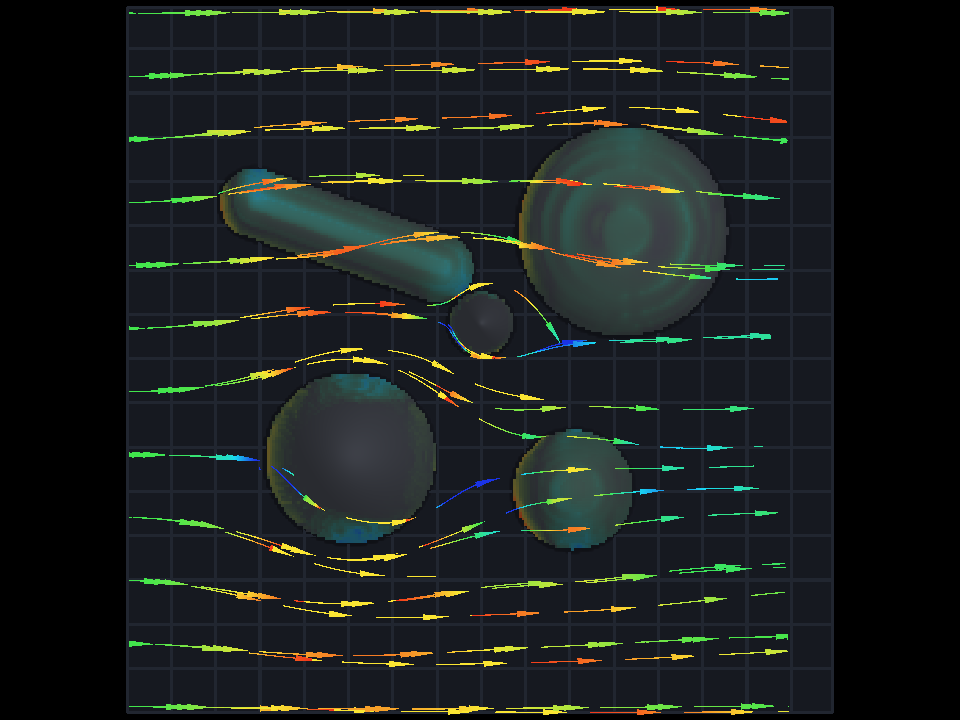
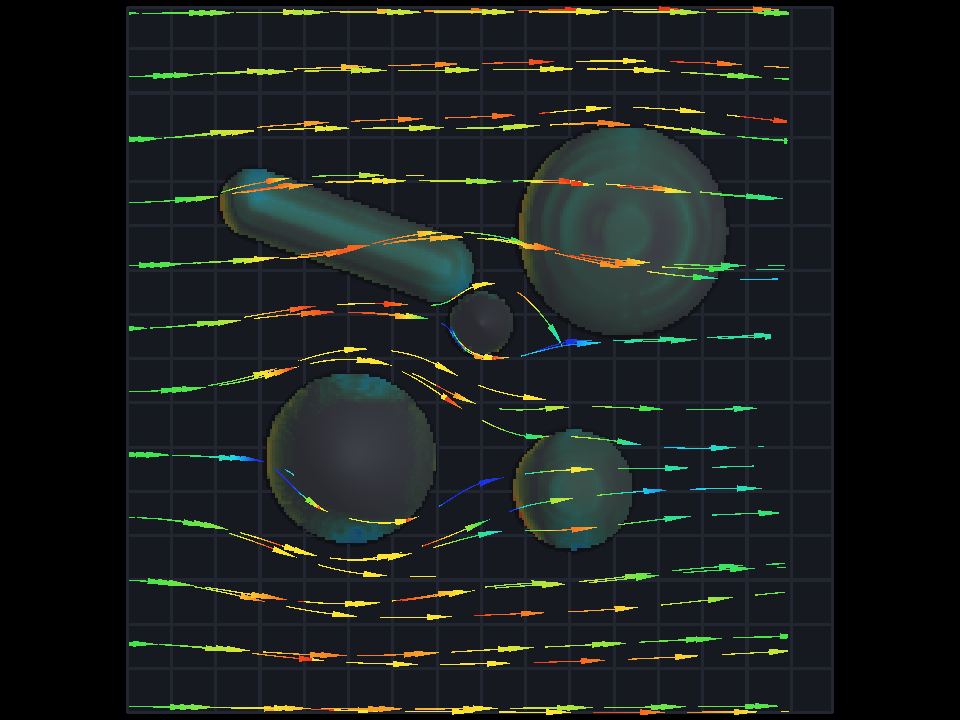
fix: drive the projector canvas from the opener without offscreencanvas

Changed region(s): [[0.6562, 0.9778, 0.6875, 1.0], [0.5625, 0.9778, 0.5938, 1.0]]

diff --git a/src/main.ts b/src/main.ts
@@ -124,8 +124,8 @@ async function main() {
   const view = { heightScale: 0.9, spin: 0 };
 
   let projector: Window | null = null;
-  let offscreen: OffscreenCanvas | null = null;
-  let offscreenContext: GPUCanvasContext | null = null;
+  let screen: HTMLCanvasElement | null = null;
+  let screenContext: GPUCanvasContext | null = null;
   let projectorDepth: GPUTexture | null = null;
 
   const openProjector = () => {
@@ -141,24 +141,28 @@ async function main() {
     const data = event.data;
     if (data?.type === 'projector-closed') {
       projector = null;
-      offscreen = null;
-      offscreenContext = null;
+      screen = null;
+      screenContext = null;
       projectorDepth?.destroy();
       projectorDepth = null;
-      return;
     }
-    if (data?.type === 'projector-canvas') {
-      offscreen = data.canvas as OffscreenCanvas;
-      offscreenContext = offscreen.getContext('webgpu');
-      offscreenContext?.configure({ device, format, alphaMode: 'opaque' });
-    }
-    if ((data?.type === 'projector-canvas' || data?.type === 'projector-size') && offscreen && data.width > 0 && data.height > 0) {
-      offscreen.width = data.width;
-      offscreen.height = data.height;
-      projectorDepth?.destroy();
-      projectorDepth = createDepth(device, data.width, data.height);
+    if (data?.type === 'projector-ready' && projector) {
+      screen = projector.document.querySelector<HTMLCanvasElement>('#screen');
+      screenContext = screen?.getContext('webgpu') ?? null;
+      screenContext?.configure({ device, format, alphaMode: 'opaque' });
     }
   });
+
+  const fitProjector = () => {
+    if (!screen) return;
+    const width = Math.max(1, screen.clientWidth);
+    const height = Math.max(1, screen.clientHeight);
+    if (projectorDepth && screen.width === width && screen.height === height) return;
+    screen.width = width;
+    screen.height = height;
+    projectorDepth?.destroy();
+    projectorDepth = createDepth(device, width, height);
+  };
 
   const draw = () => {
     renderPanel(panel, {
@@ -398,9 +402,10 @@ async function main() {
 
     device.queue.submit([encoder.finish()]);
 
-    if (projector && !projector.closed && offscreen && offscreenContext && projectorDepth) {
+    fitProjector();
+    if (projector && !projector.closed && screen && screenContext && projectorDepth) {
       const longest = Math.max(field.columns, field.rows);
-      const aspect = offscreen.width / offscreen.height;
+      const aspect = screen.width / screen.height;
       values[4] = 0;
       values[5] = Math.PI / 2;
       values[6] = Math.min((2 * aspect) / (field.columns / longest), 2 / (field.rows / longest)) * 0.98;
@@ -411,7 +416,7 @@ async function main() {
       const topDown = overhead.beginRenderPass({
         colorAttachments: [
           {
-            view: offscreenContext.getCurrentTexture().createView(),
+            view: screenContext.getCurrentTexture().createView(),
             clearValue: { r: 0, g: 0, b: 0, a: 1 },
             loadOp: 'clear',
             storeOp: 'store',

diff --git a/src/projector.ts b/src/projector.ts
@@ -1,13 +1,4 @@
-const display = document.querySelector<HTMLCanvasElement>('#screen')!;
-const canvas = display.transferControlToOffscreen();
-
-const size = () => ({
-  width: Math.floor(display.clientWidth * devicePixelRatio),
-  height: Math.floor(display.clientHeight * devicePixelRatio),
-});
-
-window.opener?.postMessage({ type: 'projector-canvas', canvas, ...size() }, '*', [canvas]);
-window.addEventListener('resize', () => window.opener?.postMessage({ type: 'projector-size', ...size() }, '*'));
+window.opener?.postMessage({ type: 'projector-ready' }, '*');
 window.addEventListener('beforeunload', () => window.opener?.postMessage({ type: 'projector-closed' }, '*'));
 
 const toggleFullscreen = () => {
